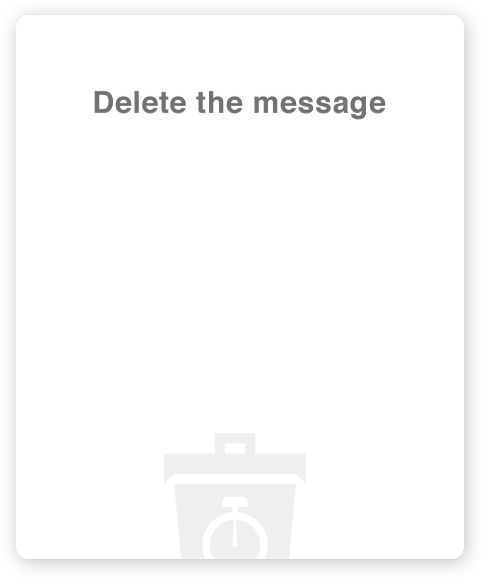
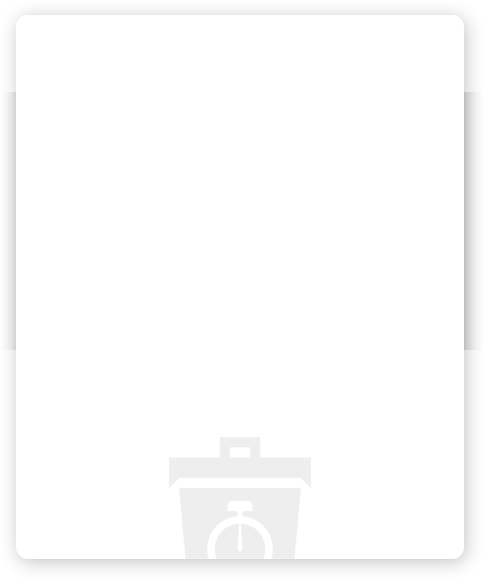
Titles for Delete localized

Changed region(s): [[0.186, 0.1552, 0.8058, 0.2172], [0.9607, 0.1552, 0.9917, 0.5897]]

diff --git a/Spika/ViewControllers/Wall/HUDeleteViewController.m b/Spika/ViewControllers/Wall/HUDeleteViewController.m
@@ -50,6 +50,7 @@
     UIButton *button = [self.buttons objectAtIndex:deleteType];
     [self setButtonSelection:button selected:YES];
  
+    [titleLabel setText:NSLocalizedString(@"delete-title", nil)];
     [deleteDontButton setTitle:NSLocalizedString(@"delete-dont",nil) forState:UIControlStateNormal];
     [deleteNowButton setTitle:NSLocalizedString(@"delete-now",nil) forState:UIControlStateNormal];
     [deleteIn5MinButton setTitle:NSLocalizedString(@"delete-5min",nil) forState:UIControlStateNormal];

diff --git a/Spika/ViewControllers/Wall/HUDeleteViewController.h b/Spika/ViewControllers/Wall/HUDeleteViewController.h
@@ -11,7 +11,7 @@
 #import "ModelMessage.h"
 
 @interface HUDeleteViewController : HUBaseViewController {
-    IBOutlet UIImageView    *image;
+    IBOutlet UILabel        *titleLabel;
     IBOutlet UIButton       *deleteDontButton;
     IBOutlet UIButton       *deleteNowButton;
     IBOutlet UIButton       *deleteIn5MinButton;

diff --git a/Spika/ViewControllers/Wall/HUDeleteInformationViewController.m b/Spika/ViewControllers/Wall/HUDeleteInformationViewController.m
@@ -23,6 +23,8 @@
 {
     [super viewDidLoad];
     
+    [titleLabel setText:NSLocalizedString(@"delete-info-title", nil)];
+    
     if (_message.deleteType > 0) {
         deleteTimeLabel.text = [self getTimeAsStringForLabel:_message.deleteAt];
     }

diff --git a/Spika/ViewControllers/Wall/HUDeleteInformationViewController.h b/Spika/ViewControllers/Wall/HUDeleteInformationViewController.h
@@ -11,6 +11,7 @@
 #import "ModelMessage.h"
 
 @interface HUDeleteInformationViewController : HUBaseViewController {
+    IBOutlet UILabel        *titleLabel;
     IBOutlet UILabel        *deleteTimeLabel;
     IBOutlet UIButton       *closeButton;
 }
